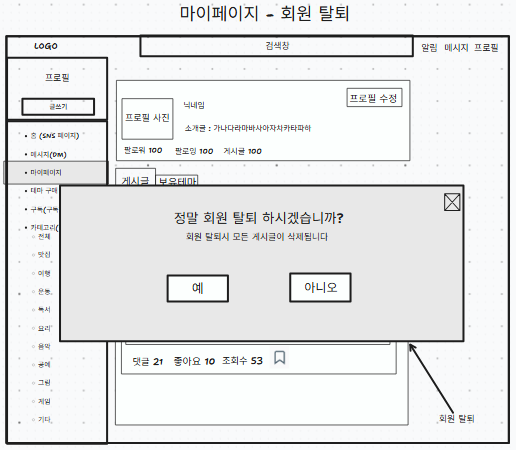
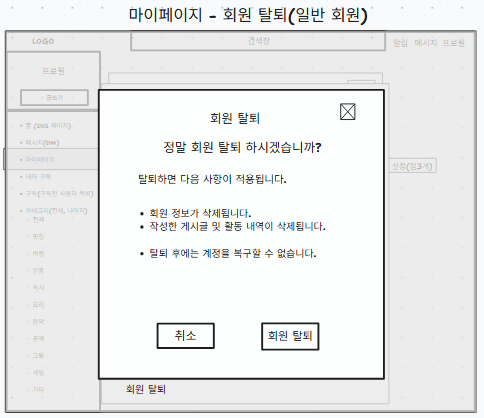
modify wireframe3

Changed region(s): [[0.0, 0.0, 0.9917, 0.9952], [0.3099, 0.4665, 0.6818, 0.5598], [0.3099, 0.5909, 0.6818, 0.6842]]

diff --git a/docs/02_design/03_ui_wireframe.md b/docs/02_design/03_ui_wireframe.md
@@ -49,10 +49,10 @@
   - 상호작용 요소: 하트 아이콘(좋아요 수), 말풍선 아이콘(댓글 수), 스크랩 아이콘
   - 우측 상단(로그인 시): 알림, 메시지, 프로필
 - 화면 제어 및 동작 규칙 (Behavior Rules):
-  - 스크롤 하단 도달 시 다음 페이지 피드 자동 요청 (무한 스크롤 무중단 로딩)
+  - 스크롤 하단 도달 시 다음 페이지 피드 자동 요청 (무한 스크롤)
   - 카테고리 클릭 시 해당 카테고리 필터링 목록 화면으로 이동
   - 게시글 본문 또는 이미지 클릭 시 피드 상세 모달 창 활성화
-  - 좋아요 아이콘 클릭 시 빨간색 채움 상태로 토글 및 카운트 +1 즉각 반영 (낙관적 업데이트)
+  - 좋아요 아이콘 클릭 시 빨간색 채움 상태로 토글 및 카운트 +1 즉각 반영 
   - 스크랩 아이콘 클릭 시 저장 상태 토글
 
 ### 1.2.4 메인 게시글 목록 화면(로그아웃 시) (`/posts`)
@@ -63,10 +63,10 @@
   - 상호작용 요소: 하트 아이콘(좋아요 수), 말풍선 아이콘(댓글 수), 스크랩 아이콘
   - 우측 상단(로그아웃 시): 로그인, 회원가입
 - 화면 제어 및 동작 규칙 (Behavior Rules):
-  - 스크롤 하단 도달 시 다음 페이지 피드 자동 요청 (무한 스크롤 무중단 로딩)
+  - 스크롤 하단 도달 시 다음 페이지 피드 자동 요청 (무한 스크롤)
   - 카테고리 클릭 시 해당 카테고리 필터링 목록 화면으로 이동
   - 게시글 본문 또는 이미지 클릭 시 피드 상세 모달 창 활성화
-  - 좋아요 아이콘 클릭 시 빨간색 채움 상태로 토글 및 카운트 +1 즉각 반영 (낙관적 업데이트)
+  - 좋아요 아이콘 클릭 시 빨간색 채움 상태로 토글 및 카운트 +1 즉각 반영
   - 스크랩 아이콘 클릭 시 저장 상태 토글
     
 ### 1.2.5 메인 게시글 목록 화면(카테고리 눌렀을 시) (`/posts/{categoryId}`)
@@ -76,10 +76,10 @@
   - 중앙 피드 스트림: 게시글 카드 목록 (작성자 프로필, 닉네임, 작성 시간, 게시글 이미지, 본문 내용, 카테고리)
   - 우측 상단(비로그인 시): 로그인, 회원가입
 - 화면 제어 및 동작 규칙 (Behavior Rules):
-  - 스크롤 하단 도달 시 다음 페이지 피드 자동 요청 (무한 스크롤 무중단 로딩)
+  - 스크롤 하단 도달 시 다음 페이지 피드 자동 요청 (무한 스크롤)
   - 카테고리 클릭 시 해당 카테고리 필터링 목록 화면으로 이동
   - 게시글 본문 또는 이미지 클릭 시 피드 상세 모달 창 활성화
-  - 좋아요 아이콘 클릭 시 빨간색 채움 상태로 토글 및 카운트 +1 즉각 반영 (낙관적 업데이트)
+  - 좋아요 아이콘 클릭 시 빨간색 채움 상태로 토글 및 카운트 +1 즉각 반영
   - 스크랩 아이콘 클릭 시 저장 상태 토글
 
 ### 1.2.6 게시글 상세 조회 및 댓글 모달 화면 (`/posts/{postId}`)
@@ -172,7 +172,14 @@
 
 ### 1.2.12 마이페이지 - 고객센터
 ![img_37.png](img_37.png)
-
+- 출력 데이터 항목 (Output Data):
+  - 상단 영역: 환불 정책 안내 문구
+  - 중단 영역: 결제 내역 목록(결제 번호, 테마 이름, 결제 유형, 구입 날짜, 환불 신청 버튼)
+- 화면 제어 및 동작 규칙 (Behavior Rules):
+  - 환불 신청 가능 대상을 결제 내역 목록으로 조회한다.
+  - 환불 신청 버튼 클릭 시 해당 결제 건에 대한 환불 신청을 진행한다.
+  - 환불 가능 여부는 구매일 기준 환불 정책에 따라 환불 가능여부를 결정한다.
+  - 환불 신청 완료 시 처리 결과 메시지를 출력한다.
   
 ### 1.2.13 마이페이지 - 보유 테마(`/mypage/theme`)
 ![img_24.png](img_24.png)
@@ -200,23 +207,41 @@
   - 테마 적용 완료 시 선택한 테마가 화면에 반영
   - 이미 적용 중인 테마인 경우 중복 적용되지 않도록 처리
   - 테마 상세 페이지 창 닫기(X) 버튼 클릭시 해당 창 나가기
-   
-### 1.2.15 마이페이지 - 회원 탈퇴
-![img_31.png](img_31.png)
+
+### 1.2.15 마이페이지 - 설정
+![img_33.png](img_33.png)
+- 출력 데이터 항목 (Output Data):
+  - 상단 영역: 프로필 사진, 닉네임, 소개글
+  - 중단 영역: 관심사 선택 목록(맛집, 여행, 운동, 독서, 요리, 음악, 공연, 그림, 게임, 기타)
+  - 하단 영역: 취소 버튼, 저장 버튼, 적용 버튼, 회원 탈퇴 버튼
+
+- 화면 제어 및 동작 규칙 (Behavior Rules):
+  - 프로필 사진, 닉네임, 소개글을 수정할 수 있도록 처리
+  - 관심사 목록에서 원하는 관심사를 선택하거나 해제할 수 있도록 처리
+  - 저장 버튼 클릭 시 수정한 회원 정보를 저장
+  - 취소 버튼 클릭 시 수정한 내용을 반영하지 않고 기존 정보 유지
+  - 적용 버튼 클릭 시 선택한 관심사를 저장하고 사용자 관심사에 반영
+  - 기존에 선택한 관심사는 현재 선택 상태로 표시
+  - 회원 탈퇴 버튼 클릭 시 회원 탈퇴 팝업 표시
+
+### 1.2.16 마이페이지 - 회원 탈퇴
+![img_31.png](img_31.png) ![img_38.png](img_38.png)
+![img_39.png](img_39.png) ![img_41.png](img_41.png)
 
 - 출력 데이터 항목 (Output Data):
   - 상단 영역: 팝업 닫기(X) 버튼
-  - 중앙 영역: 회원 탈퇴 여부를 확인하는 안내 문구
-  - 하단 영역: 예, 아니오 버튼
+  - 회원탈퇴 안내 영역: 회원 탈퇴 여부를 확인하는 안내 문구
+  - 하단 영역: 취소, 회원 탈퇴 버튼
 - 화면 제어 및 동작 규칙 (Behavior Rules):
   - 회원 탈퇴 버튼 클릭 시 회원 탈퇴 확인 팝업 표시
-  - 회원 탈퇴시 모든 게시글이 삭제됩니다 문구 안내
-  - 예 버튼 클릭 시 회원 탈퇴 진행
+  - 회원 탈퇴 시 회원 정보 삭제, 게시글, 댓글 삭제됩니다 문구 안내
+  - 회원 탈퇴 버튼 클릭 시 회원이 유료 구독 이용자인 경우 현재 이용중인 유료 구독이 있음을 안내 
+  - 회원 탈퇴 버튼 클릭 시 회원이 유료 구독 창작자인 경우 해당 회원에 대한 신규 구독 중단 및 기존 구독자에 대한 환불 정책 안내
   - 회원 탈퇴 완료 시 로그아웃 처리 후 메인 화면으로 이동
   - 팝업 닫기(X) 버튼 클릭 시 회원 탈퇴 취소하고 팝업 닫기
 
-### 1.2.15 테마 구매(`/theme`)
-![img_33.png](img_33.png)
+### 1.2.17 테마 구매(`/theme`)
+![img_40.png](img_40.png)
 - 출력 데이터 항목 (Output Data):
   - 상단 영역: 제목, 테마 이름 검색창
   - 중앙 영역: 구매 가능한 테마 목록, 테마별 이미지, 테마 이름
@@ -233,7 +258,7 @@
   - 구매 완료된 테마는 마이페이지의 보유 테마 페이지에서 확인 가능
   - 이미 구매한 테마의 경우 보유 중으로 표시
 
-### 1.2.16 테마 구매 페이지(`/theme/{themeId}`)
+### 1.2.18 테마 구매 페이지(`/theme/{themeId}`)
 ![img_36.png](img_36.png)
 - 출력 데이터 항목 (Output Data):
   - 상단 영역: 선택한 테마의 적용 화면 미리보기 이미지, 테마 이름, 테마 설명, 테마 구매 페이지 창 닫기(X) 버튼
@@ -247,7 +272,7 @@
   - 회원 탈퇴 완료 시 로그아웃 처리 후 메인 화면으로 이동
   - 테마 구매 페이지 창 닫기(X) 버튼 클릭 시 테마 구매 페이지 닫기
   - 
-### 1.2.12 구독 페이지
+### 1.2.19 구독 페이지
 ![img_30.png](img_30.png)
 - 출력 데이터 항목 (Output Data):
   - 상단 영역: 내 프로필 사진, 닉네임, 한 줄 소개, 팔로워 수, 팔로잉 수, 게시글 수
@@ -260,6 +285,123 @@
   - 구독 사용자 프로필 영역 클릭 시 해당 사용자의 프로필 페이지로 이동
   - 구독 해지 버튼 클릭시 해당 사용자를 구독 목록에서 제거
   - 구독 기간이 만료된 경우 구독 상태를 종료 처리하고 구독 목록에서 제외
+
+### 1.2.20 관리자 페이지 - 회원관리
+![img_42.png](img_42.png)
+- 출력 데이터 항목 (Output Data):
+  - 상단 영역: 검색 조건 선택 박스(닉네임, 이메일, 인증방식), 검색 입력창
+  - 회원 목록 영역: 프로필, 닉네임, 이메일, 인증 방식, 가입년도, 강퇴 버튼
+  - 하단 영역: 페이지네이션 버튼
+
+- 화면 제어 및 동작 규칙 (Behavior Rules):
+  - 검색 조건 선택 후 검색어 입력 시 해당 조건에 맞는 회원 목록 조회
+  - 회원 목록에 프로필, 닉네임, 이메일, 인증 방식, 가입년도 표시
+  - 한 페이지 당 6개씩 표시
+  - 강퇴 버튼 클릭 시 해당 회원의 강퇴 절차 진행
+  - 강퇴 완료 시 해당 회원을 회원 목록에서 제거 또는 상태 변경 처리
+  - 페이지 번호 클릭 시 해당 페이지의 회원 목록 표시
+  - 검색 결과가 없을 경우 검색 결과 없음 안내 표시
+
+### 1.2.21 관리자 페이지 - 결제 관리
+![img_43.png](img_43.png)
+- 출력 데이터 항목 (Output Data):
+  - 상단 영역: 검색 조건 선택 박스, 검색 입력창
+  - 결제 목록 영역: 결제 번호, 회원 이메일, 테마 ID, 구매 유형, 결제 유형, 구입 날짜
+  - 하단 영역: 페이지네이션 버튼
+
+- 화면 제어 및 동작 규칙 (Behavior Rules):
+  - 검색 조건 선택 후 검색어 입력 시 해당 조건에 맞는 결제 내역 조회
+  - 결제 목록에 결제 번호, 회원 이메일, 테마 ID, 구매 유형, 결제 유형, 구입 날짜 표시
+  - 한 페이지 당 6개씩 표시
+  - 특정 결제 내역 클릭 시 해당 결제의 상세 정보 표시
+  - 페이지 번호 클릭 시 해당 페이지의 결제 내역 표시
+  - 검색 결과가 없을 경우 검색 결과 없음 안내 표시
+
+### 1.2.22 관리자 페이지- 환불 관리
+![img_44.png](img_44.png)
+- 출력 데이터 항목 (Output Data):
+  - 상단 영역: 검색 조건 선택 박스, 검색 입력창, 환불 내역 제목
+  - 환불 목록 영역: 결제 번호, 회원 이메일, 결제 유형, 구매 유형, 구입 날짜, 환불 버튼
+  - 하단 영역: 페이지네이션 버튼
+
+- 화면 제어 및 동작 규칙 (Behavior Rules):
+  - 검색 조건 선택 후 검색어 입력 시 해당 조건에 맞는 환불 대상 결제 내역 조회
+  - 환불 목록에 결제 번호, 회원 이메일, 결제 유형, 구매 유형, 구입 날짜 표시
+  - 한 페이지 당 6개씩 표시
+  - 환불 버튼 클릭 시 해당 결제 건의 환불 처리 진행
+  - 환불 처리 완료 시 해당 결제 건의 상태를 환불 완료로 변경
+  - 이미 환불된 결제 건은 중복 환불되지 않도록 처리
+  - 페이지 번호 클릭 시 해당 페이지의 환불 내역 표시
+  - 검색 결과가 없을 경우 검색 결과 없음 안내 표시
+
+### 1.2.23 괸리자 페이지 - 구독 관리
+![img_45.png](img_45.png)
+
+- 출력 데이터 항목 (Output Data):
+  - 상단 영역: 검색 조건 선택 박스, 검색 입력창, 구독 환불 정책 안내 문구
+  - 구독 목록 영역: 결제 번호, 회원 ID(member_id), 구독 대상 ID(target_id), 결제일, 만료일, 결제 유형
+  - 하단 영역: 페이지네이션 버튼
+
+- 화면 제어 및 동작 규칙 (Behavior Rules):
+  - 검색 조건 선택 후 검색어 입력 시 해당 조건에 맞는 구독 내역 조회
+  - 구독 목록에 결제 번호, 회원 ID, 구독 대상 ID, 결제일, 만료일, 결제 유형 표시
+  - 페이지 번호 클릭 시 해당 페이지의 구독 내역 표시
+  - 검색 결과가 없을 경우 검색 결과 없음 안내 표시
+
+### 1.2.24 관리자 페이지 - 게시글/댓글 관리
+![img_46.png](img_46.png) ![img_47.png](img_47.png)
+- 출력 데이터 항목 (Output Data):
+  - 상단 영역: 검색 조건 선택 박스, 검색 입력창
+  - 게시글/댓글 목록 영역: ID, 닉네임, 이메일, 내용, 작성일시, 삭제 버튼
+  - 하단 영역: 페이지네이션 버튼
+  - 게시글 상세 페이지: 해당 게시글 작성사의 프로필 사진, 닉네임, 이미지, 댓글, 미트볼 메뉴(점3개)
+
+- 화면 제어 및 동작 규칙 (Behavior Rules):
+  - 검색 조건 선택 후 검색어 입력 시 해당 조건에 맞는 게시글 또는 댓글 목록 조회
+  - 목록에 ID, 닉네임, 이메일, 내용, 작성일시 표시
+  - 삭제 버튼 클릭 시 해당 게시글 삭제 
+  - 해당 게시글 클릭시 게시글 상세 페이지로 이동
+  - 관리자는 게시글 상세 페이지에서 미트볼 메뉴(점3개)에서 삭제버튼을 눌러 삭제 가능
+  - 삭제 완료 시 해당 게시글 목록에서 제거
+  - 페이지 번호 클릭 시 해당 페이지의 목록 표시
+  - 검색 결과가 없을 경우 검색 결과 없음 안내 표시
+
+### 1.2.25 관리자 페이지 - 테마 관리
+![img_48.png](img_48.png)
+
+- 출력 데이터 항목 (Output Data):
+  - 상단 영역: 검색 조건 선택 박스, 검색 입력창
+  - 테마 목록 영역: 테마 이미지, 테마 이름, 수정 버튼, 삭제 버튼
+  - 테마 추가 영역: 새로운 테마 추가 버튼
+  - 하단 영역: 페이지네이션 버튼
+
+- 화면 제어 및 동작 규칙 (Behavior Rules):
+  - 검색 조건 선택 후 검색어 입력 시 해당 조건에 맞는 테마 목록 조회
+  - 테마 목록에 테마 이미지와 테마 이름 표시
+  - 수정 버튼 클릭 시 해당 테마의 정보 수정 화면 표시
+  - 삭제 버튼 클릭 시 해당 테마 삭제 절차 진행
+  - 기본 테마는 삭제되지 않도록 처리
+  - 새로운 테마 추가 버튼 클릭 시 테마 등록 화면 표시
+  - 테마 등록 완료 시 목록에 새로운 테마 반영
+  - 페이지 번호 클릭 시 해당 페이지의 테마 목록 표시
+  - 검색 결과가 없을 경우 검색 결과 없음 안내 표시
+
+### 1.2.26 관리자 페이지 - 신고 관리
+![img_49.png](img_49.png)
+- 출력 데이터 항목 (Output Data):
+  - 상단 영역: 검색 조건 선택 박스, 검색 입력창
+  - 신고 목록 영역: ID, 닉네임, 이메일, 신고 내용, 작성일시, 삭제 버튼
+  - 하단 영역: 페이지네이션 버튼
+
+- 화면 제어 및 동작 규칙 (Behavior Rules):
+  - 검색 조건 선택 후 검색어 입력 시 해당 조건에 맞는 신고 내역 조회
+  - 신고 목록에 ID, 닉네임, 이메일, 신고 내용, 작성일시 표시
+  - 신고 내역 클릭 시 해당 신고의 상세 내용 확인
+  - 삭제 버튼 클릭 시 해당 신고 내역 삭제 처리
+  - 삭제 전 확인 메시지를 표시하여 삭제 여부 확인
+  - 삭제 완료 시 해당 신고 내역을 목록에서 제거
+  - 페이지 번호 클릭 시 해당 페이지의 신고 목록 표시
+  - 검색 결과가 없을 경우 검색 결과 없음 안내 표시
 
 ### 1.2.15 1:1 메시지 페이지(`/message`)
 ![img_29.png](img_29.png)
